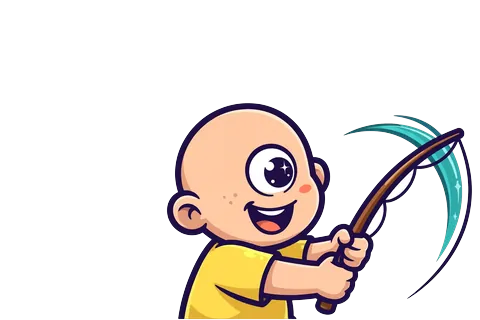
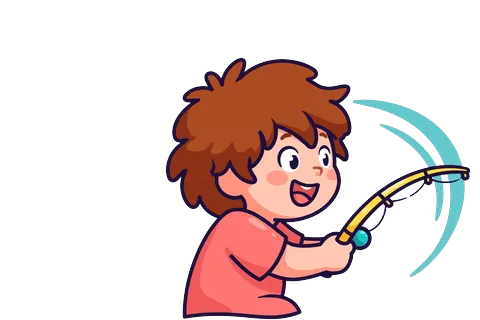
Mirror v1.1.1 from dev repo (tap-anywhere cast, payout hero, flight x2, zoom camera, hold-fire guns, new fisher/carp/sky art)

diff --git a/src/shoot.js b/src/shoot.js
@@ -2,9 +2,10 @@
 // Firing is limited ONLY by each gun's fire rate. There is no limited-shots state of any kind.
 import { CONFIG } from './config.js';
 
-const { W } = CONFIG;
+const { W, H } = CONFIG;
 // VY_MIN/VY_MAX are the v1.0 base speeds; CONFIG.LAUNCH_VY_MULT scales them. Gravity is CONFIG.GRAVITY.
-export const SHOOT = { VY_MIN: 1100, VY_MAX: 1450, VX: 260, STAGGER: 0.06, WATER: 780, HIT_PAD: 24, CAM_TAU: 0.25 };
+export const SHOOT = { VY_MIN: 1100, VY_MAX: 1450, VX: 260, STAGGER: 0.06, WATER: 780, HIT_PAD: 48, CAM_TAU: 0.25,
+  ZOOM_MIN: 0.5, FRAME_TOP: 80, FRAME_LOW: 200, EDGE: 40 }; // sky camera framing, world/screen px
 export const gunRate = (gun) => gun.rate * CONFIG.GUN_RATE_MULT;
 
 // gear: { spring, antigrav, fallSlow (gravity ×), launchMul (vy ×) } — all multiply together.
@@ -12,17 +13,40 @@ export function createShoot(hooked, gear = {}, x0 = W / 2) {
   return {
     queue: [...hooked], air: [], landed: [], lost: [], x0,
     t: 0, launchIn: 0, cooldown: 0, pointer: { x: W / 2, y: 300, down: false }, shots: [], fired: 0, hits: 0,
-    cam: 0, // world y of the top of the view (≤ 0: the sky camera pans up to follow the fish)
+    cam: 0,  // world y of the top of the view (≤ 0: the sky camera pans up to follow the fish)
+    zoom: 1, // view scale, ZOOM_MIN..1 (< 1: zoomed out to fit a tall spread of fish)
     g: CONFIG.GRAVITY * (gear.antigrav ? 0.55 : 1) * (gear.fallSlow ?? 1),
     vyMul: CONFIG.LAUNCH_VY_MULT * (gear.spring ? 1.15 : 1) * (gear.launchMul ?? 1),
   };
 }
 
-// Sky camera: centre the view on the mean height of the airborne fish, never below the base view.
+// World ↔ screen for the sky camera. The zoom is about the horizontal centre and the view top.
+export const toScreen = (s, x, y) => ({ x: (x - W / 2) * s.zoom + W / 2, y: (y - s.cam) * s.zoom });
+export const toWorld = (s, x, y) => ({ x: (x - W / 2) / s.zoom + W / 2, y: y / s.zoom + s.cam });
+export const lowestFish = (s) => s.air.reduce((lo, f) => (!lo || f.y > lo.y ? f : lo), null);
+
+// Sky camera target: frame every airborne fish (zooming out to ZOOM_MIN for a tall spread); when they
+// don't all fit, the LOWEST fish (the next to land) wins. The view bottom never drops below the base view.
 export function camTarget(s) {
-  if (!s.air.length) return 0;
-  const mean = s.air.reduce((a, f) => a + f.y, 0) / s.air.length;
-  return Math.min(0, mean - CONFIG.H * 0.45);
+  if (!s.air.length) return { cam: 0, zoom: 1 };
+  let top = Infinity, low = -Infinity;
+  for (const f of s.air) { top = Math.min(top, f.y); low = Math.max(low, f.y); }
+  const a = top - SHOOT.FRAME_TOP, b = low + SHOOT.FRAME_LOW;
+  const zoom = Math.min(1, Math.max(SHOOT.ZOOM_MIN, H / (b - a)));
+  const bottom = Math.min(H, Math.max(b, (a + b) / 2 + H / (2 * zoom)));
+  return { cam: bottom - H / zoom, zoom };
+}
+
+// Eases toward the target, then hard-keeps the lowest airborne fish inside the canvas.
+export function moveCam(s, dt) {
+  const tg = camTarget(s), k = 1 - Math.exp(-dt / SHOOT.CAM_TAU);
+  s.zoom += (tg.zoom - s.zoom) * k;
+  s.cam += (tg.cam - s.cam) * k;
+  const lo = lowestFish(s);
+  if (!lo) return;
+  const y = (lo.y - s.cam) * s.zoom, e = SHOOT.EDGE;
+  if (y > H - e) s.cam = lo.y - (H - e) / s.zoom;
+  if (y < e) s.cam = lo.y - e / s.zoom;
 }
 
 export function launchOne(s, f, rng = Math.random) {
@@ -42,20 +66,22 @@ export function flyFish(s, dt, rng = Math.random) {
     if (f.x > W - f.r) { f.x = W - f.r; f.vx = -Math.abs(f.vx); }
     if (f.vy > 0 && f.y > SHOOT.WATER) { s.air.splice(s.air.indexOf(f), 1); s.lost.push(f); }
   }
-  s.cam += (camTarget(s) - s.cam) * (1 - Math.exp(-dt / SHOOT.CAM_TAU));
+  moveCam(s, dt);
 }
 
 export const shootDone = (s) => s.queue.length === 0 && s.air.length === 0;
 
 // One trigger pull: each pellet lands at a random point in the spread circle around the pointer.
-// The pointer is in screen coordinates; pellets live in world coordinates (screen y + cam).
+// The pointer is in screen coordinates; pellets live in world coordinates (toWorld). Spread and the
+// hit slack are screen px, so zooming out never makes a fish harder to hit.
 export function fire(s, gun, rng = Math.random) {
   s.fired++;
+  const aim = toWorld(s, s.pointer.x, s.pointer.y), pad = SHOOT.HIT_PAD / s.zoom;
   for (let i = 0; i < gun.pellets; i++) {
-    const a = rng() * Math.PI * 2, rad = Math.sqrt(rng()) * gun.spread;
-    const x = s.pointer.x + Math.cos(a) * rad, y = s.pointer.y + s.cam + Math.sin(a) * rad;
+    const a = rng() * Math.PI * 2, rad = (Math.sqrt(rng()) * gun.spread) / s.zoom;
+    const x = aim.x + Math.cos(a) * rad, y = aim.y + Math.sin(a) * rad;
     s.shots.push({ x, y, t: s.t });
-    const f = s.air.find((f) => (f.x - x) ** 2 + (f.y - y) ** 2 < (f.r + SHOOT.HIT_PAD) ** 2);
+    const f = s.air.find((f) => (f.x - x) ** 2 + (f.y - y) ** 2 < (f.r + pad) ** 2);
     if (!f) continue;
     f.hp -= gun.damage; f.hit = 0.12; s.hits++;
     if (f.hp <= 1e-9) { s.air.splice(s.air.indexOf(f), 1); s.landed.push(f); }

diff --git a/src/screens.js b/src/screens.js
@@ -12,7 +12,8 @@ import { SPECIES } from './data/fish.js';
 import { settleRun } from './settle.js';
 import { sfx } from './audio.js';
 import { PRESET_NAMES, PRESET_COLORS, freshSlot } from './save.js';
-import { drawFish } from './fishart.js';
+import { drawFish, drawFishSprite, fishArtPath } from './fishart.js';
+import { art } from './art.js';
 
 const { W, H } = CONFIG;
 
@@ -88,9 +89,15 @@ G.scenes.shop = {
 };
 
 let tally = 0, after = 0;
+export const payoutDrawn = { hero: null, rows: [] }; // which sprite art the payout actually drew (smoke test)
+const HERO = 180, ROW_Y = 378, ROW_H = 54, ROWS = 6;
+
 G.scenes.payout = {
   steers: false,
-  enter() { G.payout = settleRun(G.slot, G.run, G.shoot); tally = 0; after = 0; G.persist(); if (!G.payout.rows.length) sfx.noCatch(); },
+  enter() {
+    G.payout = settleRun(G.slot, G.run, G.shoot); tally = 0; after = 0; G.persist(); if (!G.payout.rows.length) sfx.noCatch();
+    for (const r of G.payout.rows) art(fishArtPath(r.sp)); // make sure every sprite is loading
+  },
   update(dt) {
     const p = G.payout, was = after;
     if (tally < 1) { tally = Math.min(1, tally + dt / 1.5); if (p.total > 0) sfx.tally(); return; }
@@ -101,21 +108,33 @@ G.scenes.payout = {
     if (at(1.3) && p.opened.length) sfx.zoneUnlock();
   },
   render(ctx, t) {
-    const p = G.payout;
+    const p = G.payout, h = p.hero;
     drawSea(ctx, [120, 210, 245], [20, 90, 140], 0, t);
-    text(ctx, p.rows.length ? 'NICE CATCH!' : 'No fish this time!', W / 2, 90, 48);
-    const shown = p.rows.slice(0, 9);
+    text(ctx, p.rows.length ? 'NICE CATCH!' : 'No fish this time!', W / 2, h ? 52 : 90, h ? 44 : 48);
+    payoutDrawn.hero = null; payoutDrawn.rows = [];
+    if (h) { // hero: the run's most valuable fish, big, popping in
+      const cy = 178, k = Math.min(1, 0.5 + tally * 3), bob = Math.sin(t * 2.5) * 5;
+      const glow = ctx.createRadialGradient(W / 2, cy, 10, W / 2, cy, HERO * 0.62);
+      glow.addColorStop(0, 'rgba(255,240,170,0.75)'); glow.addColorStop(1, 'rgba(255,240,170,0)');
+      ctx.fillStyle = glow; ctx.beginPath(); ctx.arc(W / 2, cy, HERO * 0.62, 0, Math.PI * 2); ctx.fill();
+      ctx.save(); ctx.translate(W / 2, cy + bob); ctx.scale(k, k);
+      if (drawFishSprite(ctx, h.sp, 0, 0, HERO, t)) payoutDrawn.hero = h.art;
+      ctx.restore();
+      text(ctx, h.sp.name, W / 2, 292, 32, '#fff');
+      text(ctx, `${h.pay < 0 ? '-' : ''}$${Math.abs(Math.round(h.pay)).toLocaleString()}`, W / 2, 330, 28, h.pay < 0 ? '#ff8fa3' : '#ffe066');
+    }
+    const shown = p.rows.slice(0, ROWS);
     shown.forEach((r, i) => {
-      const y = 170 + i * 62, k = Math.min(1, Math.max(0, tally * shown.length - i));
+      const y = ROW_Y + i * ROW_H, k = Math.min(1, Math.max(0, tally * shown.length - i));
       if (k <= 0) return;
       ctx.globalAlpha = k;
-      ctx.fillStyle = 'rgba(255,255,255,0.18)'; rr(ctx, 30, y - 27, W - 60, 54, 14); ctx.fill();
-      drawFish(ctx, r.sp, 72, y, Math.min(r.sp.r, 22), 1, t);
+      ctx.fillStyle = 'rgba(255,255,255,0.18)'; rr(ctx, 30, y - 24, W - 60, 48, 14); ctx.fill();
+      if (drawFishSprite(ctx, r.sp, 74, y, 46, t)) payoutDrawn.rows.push(r.art);
       text(ctx, `${r.sp.name}${r.n > 1 ? ' ×' + r.n : ''}`, 110, y, 22, '#fff', 'left');
       text(ctx, `${r.pay < 0 ? '-' : ''}$${Math.abs(Math.round(r.pay)).toLocaleString()}`, W - 50, y, 24, r.pay < 0 ? '#ff8fa3' : '#ffe066', 'right');
       ctx.globalAlpha = 1;
     });
-    if (p.rows.length > shown.length) text(ctx, `+ ${p.rows.length - shown.length} more kinds`, W / 2, 170 + 9 * 62 - 20, 20, '#cfe9ff');
+    if (p.rows.length > shown.length) text(ctx, `+ ${p.rows.length - shown.length} more kinds`, W / 2, ROW_Y + ROWS * ROW_H - 14, 20, '#cfe9ff');
     if (p.lost) text(ctx, `${p.lost} got away`, W / 2, 710, 20, '#cfe9ff');
     const news = [p.newSpecies.length && `${p.newSpecies.length} new for your fish book!`, ...p.opened.map((z) => `${z.name} is open!`)].filter(Boolean);
     news.forEach((n, i) => text(ctx, n, W / 2, 742 + i * 28 - (news.length - 1) * 14, 22, '#b9fbc0'));

diff --git a/src/play.js b/src/play.js
@@ -10,7 +10,7 @@ import { BY_ID } from './data/fish.js';
 import { ZONES, light, lampRadius } from './data/zones.js';
 import { drawFish } from './fishart.js';
 import { drawSea, drawLure, drawLine, drawArrows, drawSawButton, text, lerpRgb, drawBoat, drawSky, drawCrosshair } from './draw.js';
-import { createShoot, stepShoot, SHOOT } from './shoot.js';
+import { createShoot, stepShoot, toScreen, SHOOT } from './shoot.js';
 import { GUN, ITEM } from './data/shop.js';
 import { wearDrawer, drawItemIcon } from './icons.js';
 import { art, drawArt } from './art.js';
@@ -249,8 +249,8 @@ G.scenes.shoot = {
       sfx.splat();
       if (pay < 0) sfx.ouch(); else sfx.coin();
       if (f.sp.rarity === 'boss') { sfx.boss(); quake(12, 0.5); }
-      const y = f.y - s.cam;
-      burst(f.x, y, f.sp.color, 14, 240); popup(f.x, y - 20, `${pay < 0 ? '-' : '+'}$${Math.abs(pay).toLocaleString()}`, pay < 0 ? '#ff8fa3' : '#ffe066');
+      const { x, y } = toScreen(s, f.x, f.y);
+      burst(x, y, f.sp.color, 14, 240); popup(x, y - 20, `${pay < 0 ? '-' : '+'}$${Math.abs(pay).toLocaleString()}`, pay < 0 ? '#ff8fa3' : '#ffe066');
     }
     if (done) G.go('noAirborne');
   },
@@ -258,10 +258,10 @@ G.scenes.shoot = {
   pointerMove(p) { Object.assign(G.shoot.pointer, p); },
   pointerUp() { G.shoot.pointer.down = false; },
   render(ctx, t) {
-    const s = G.shoot, cam = s.cam;
-    drawSky(ctx, SHOOT.WATER, t, G.run.night, cam);
-    ctx.save(); ctx.translate(0, -cam);
-    if (SHOOT.WATER + 4 - cam < H + 140) {
+    const s = G.shoot, cam = s.cam, z = s.zoom;
+    drawSky(ctx, SHOOT.WATER, t, G.run.night, cam, z);
+    ctx.save(); ctx.translate(W / 2, 0); ctx.scale(z, z); ctx.translate(-W / 2, -cam); // sky camera: pan + zoom
+    if ((SHOOT.WATER + 4 - cam) * z < H + 140) {
       drawBoat(ctx, s.x0, SHOOT.WATER + 4, t, G.slot.color, wearDrawer(G.slot.equip),
         G.slot.flags.bossBeaten ? (c) => drawFish(c, BY_ID.get(47), -44, -40, 16, -1, t) : null);
     }
@@ -279,11 +279,11 @@ G.scenes.shoot = {
     ctx.restore();
     // fish above / below the view: a small arrow at the edge so kids know where to look
     for (const f of s.air) {
-      const y = f.y - cam;
-      if (y > -f.r && y < H + f.r) continue;
+      const { x, y } = toScreen(s, f.x, f.y), r = f.r * z;
+      if (y > -r && y < H + r) continue;
       const top = y < 0, ay = top ? 18 : H - 18;
       ctx.fillStyle = 'rgba(255,209,102,0.9)'; ctx.beginPath();
-      ctx.moveTo(f.x, ay + (top ? -10 : 10)); ctx.lineTo(f.x - 12, ay + (top ? 8 : -8)); ctx.lineTo(f.x + 12, ay + (top ? 8 : -8)); ctx.fill();
+      ctx.moveTo(x, ay + (top ? -10 : 10)); ctx.lineTo(x - 12, ay + (top ? 8 : -8)); ctx.lineTo(x + 12, ay + (top ? 8 : -8)); ctx.fill();
     }
     drawFx(ctx);
     if (s.pointer.down) drawCrosshair(ctx, s.pointer.x, s.pointer.y, gun().spread, true);

diff --git a/src/dock.js b/src/dock.js
@@ -1,4 +1,5 @@
-// The dock is the boat scene (GAME_SPEC §10.F): tap the fisher, the boat or the water to cast.
+// The dock is the boat scene (GAME_SPEC §10.F): a tap anywhere on the scene casts (v1.1.1), except on
+// the HUD bar and the zone buoys, which keep their own actions.
 // A HUD bar overlays the sky; buoys under the boat pick the zone; the title screen reuses the scene.
 import { CONFIG } from './config.js';
 import { G } from './game.js';
@@ -114,6 +115,7 @@ function kidFace(ctx, slotIndex, color, x, y, r) {
 
 function hud(ctx) {
   const slot = G.slot, st = slot.settings, charm = charmOf(slot);
+  addButton({ x: 8, y: 8, w: W - 16, h: 156, label: 'HUD', onTap: () => {}, silent: true }); // gaps in the bar never cast
   ctx.fillStyle = 'rgba(0,40,70,0.35)'; rr(ctx, 8, 8, W - 16, 156, 20); ctx.fill();
   kidFace(ctx, G.data.activeSlot, slot.color, 46, 46, 28);
   text(ctx, slot.name, 86, 32, 22, '#fff', 'left');
@@ -209,8 +211,8 @@ G.scenes.dock = {
       if (!open) { dock.msg = lockReason(slot, zone); dock.msgT = 2.5; sfx.error(); return; }
       dock.casting = DOCK.CAST_DELAY; sfx.cast();
     };
-    // cast targets first (lowest priority): the water surface band, then the boat + fisher
-    addButton({ x: 0, y: DOCK.WATER - 40, w: W, h: 100, label: 'CAST', onTap: tryCast, silent: true });
+    // cast targets first (lowest priority): the whole scene, then the boat + fisher; buoys + HUD go on top
+    addButton({ x: 0, y: 0, w: W, h: H, label: 'CAST_ANY', onTap: tryCast, silent: true });
     addButton({ x: DOCK.BOAT_X - 120, y: 170, w: 240, h: DOCK.WATER + 30 - 170, label: 'CAST', onTap: tryCast, silent: true });
     drawScene(ctx, t, slot.settings.night, zone, dock.casting > 0 ? 'cast' : 'idle');
     if (!slot.flags.hasCast && !dock.casting) {   // pulsing hint bubble until the first cast

diff --git a/src/settle.js b/src/settle.js
@@ -1,13 +1,16 @@
 // End-of-run bookkeeping: pay, discover, best depth, boss flag, unlocks. Pure: no DOM.
 import { fishPay, runTotal, discover, refreshUnlocks, grantGifts } from './economy.js';
+import { fishArtPath } from './fishart.js';
 
 export function settleRun(slot, run, shoot) {
   const ctx = { outfit: slot.equip.outfit, hat: slot.equip.hat, zoneId: run.zone.id };
   const fishes = [...shoot.landed, ...run.landed];
   const rows = new Map();
+  let hero = null; // the single most valuable fish of the run: shown big at the top of the payout
   for (const f of fishes) {
-    const r = rows.get(f.sp.id) || { sp: f.sp, n: 0, pay: 0 };
-    r.n++; r.pay += fishPay(f, ctx); rows.set(f.sp.id, r);
+    const r = rows.get(f.sp.id) || { sp: f.sp, art: fishArtPath(f.sp), n: 0, pay: 0 }, pay = fishPay(f, ctx);
+    r.n++; r.pay += pay; rows.set(f.sp.id, r);
+    if (!hero || pay > hero.pay) hero = { sp: f.sp, art: r.art, pay };
   }
   const total = runTotal(fishes, ctx);
   slot.cash += total;
@@ -17,5 +20,5 @@ export function settleRun(slot, run, shoot) {
   if (bossLanded) slot.flags.bossBeaten = true;
   grantGifts(slot);
   const opened = refreshUnlocks(slot);
-  return { rows: [...rows.values()].sort((a, b) => b.pay - a.pay), total, lost: shoot.lost.length, bossLanded, newSpecies, opened };
+  return { rows: [...rows.values()].sort((a, b) => b.pay - a.pay), hero, total, lost: shoot.lost.length, bossLanded, newSpecies, opened };
 }

diff --git a/src/draw.js b/src/draw.js
@@ -137,7 +137,7 @@ export function drawBoat(ctx, x, y, t, color = '#ff6b9a', wear = null, buddy = n
 
 // Sky + sea seen from the boat. `cam` (≤ 0) is the world y of the view top: the sky camera pans
 // up to follow airborne fish, clouds drift with parallax and the sea slides down out of view.
-export function drawSky(ctx, waterY, t, night = false, cam = 0) {
+export function drawSky(ctx, waterY, t, night = false, cam = 0, zoom = 1) {
   const sky = !night && art('bg/sky_shoot.png');
   if (sky) { const h = (W * sky.naturalHeight) / sky.naturalWidth; ctx.drawImage(sky, 0, Math.min(0, H - h - cam * 0.3), W, h); }
   else {
@@ -155,7 +155,7 @@ export function drawSky(ctx, waterY, t, night = false, cam = 0) {
     if (cy < -60 || cy > H + 60) continue;
     ctx.beginPath(); ctx.arc(cx, cy, 26 * s, 0, Math.PI * 2); ctx.arc(cx + 28 * s, cy + 6, 20 * s, 0, Math.PI * 2); ctx.arc(cx - 26 * s, cy + 8, 18 * s, 0, Math.PI * 2); ctx.fill();
   }
-  const wy = waterY - cam;
+  const wy = (waterY - cam) * zoom;
   if (wy >= H) return;
   const sea = ctx.createLinearGradient(0, wy, 0, wy + (H - waterY));
   sea.addColorStop(0, night ? '#1d3557' : '#48b5e0'); sea.addColorStop(1, night ? '#081426' : '#0b3d5c');

diff --git a/src/fishart.js b/src/fishart.js
@@ -271,6 +271,16 @@ export function drawFish(ctx, sp, x, y, r, dir, t, opts = {}) {
   ctx.restore();
 }
 
+// The species' sprite art fitted to a size×size box (its longest side = size), upright and facing right,
+// for menus (payout rows, the payout hero). Falls back to the code-drawn fish. Returns true for art.
+export function drawFishSprite(ctx, sp, x, y, size, t = 0) {
+  const im = art(fishArtPath(sp));
+  if (!im) { drawFish(ctx, sp, x, y, size / 2.8, 1, t); return false; }
+  const k = size / Math.max(im.naturalWidth, im.naturalHeight), w = im.naturalWidth * k, h = im.naturalHeight * k;
+  ctx.drawImage(im, x - w / 2, y - h / 2, w, h);
+  return true;
+}
+
 const silCache = new Map();
 function drawSilhouette(ctx, sp, x, y, r, dir) {
   const key = sp.id + ':' + r + (art(fishArtPath(sp)) ? 'a' : 'c'); // re-cache once the sprite has loaded

diff --git a/src/config.js b/src/config.js
@@ -5,7 +5,7 @@ export const CONFIG = {
   SAVE_KEY: 'weirdfishing.save.v2',
   FIXED_DT: 1 / 60,          // fixed-step sim, render on rAF
   MAX_STEPS: 4,              // at most 4 sim steps per frame (30fps floor)
-  GRAVITY: 560,              // px/s² in the air (v1.0: 1400) — fish float down slower [TUNE]
+  GRAVITY: 280,              // px/s² in the air (v1.0: 1400, v1.1: 560) — apex + airtime ×2 vs v1.1 [TUNE]
   LAUNCH_VY_MULT: 1.1,       // launch vy × this (−1210..−1595 px/s) — apex ≈ 3× v1.0 [TUNE]
-  GUN_RATE_MULT: 1.5,        // every gun's data rate × this [TUNE]
+  GUN_RATE_MULT: 2.25,       // every gun's data rate × this (v1.1: 1.5) [TUNE]
 };
